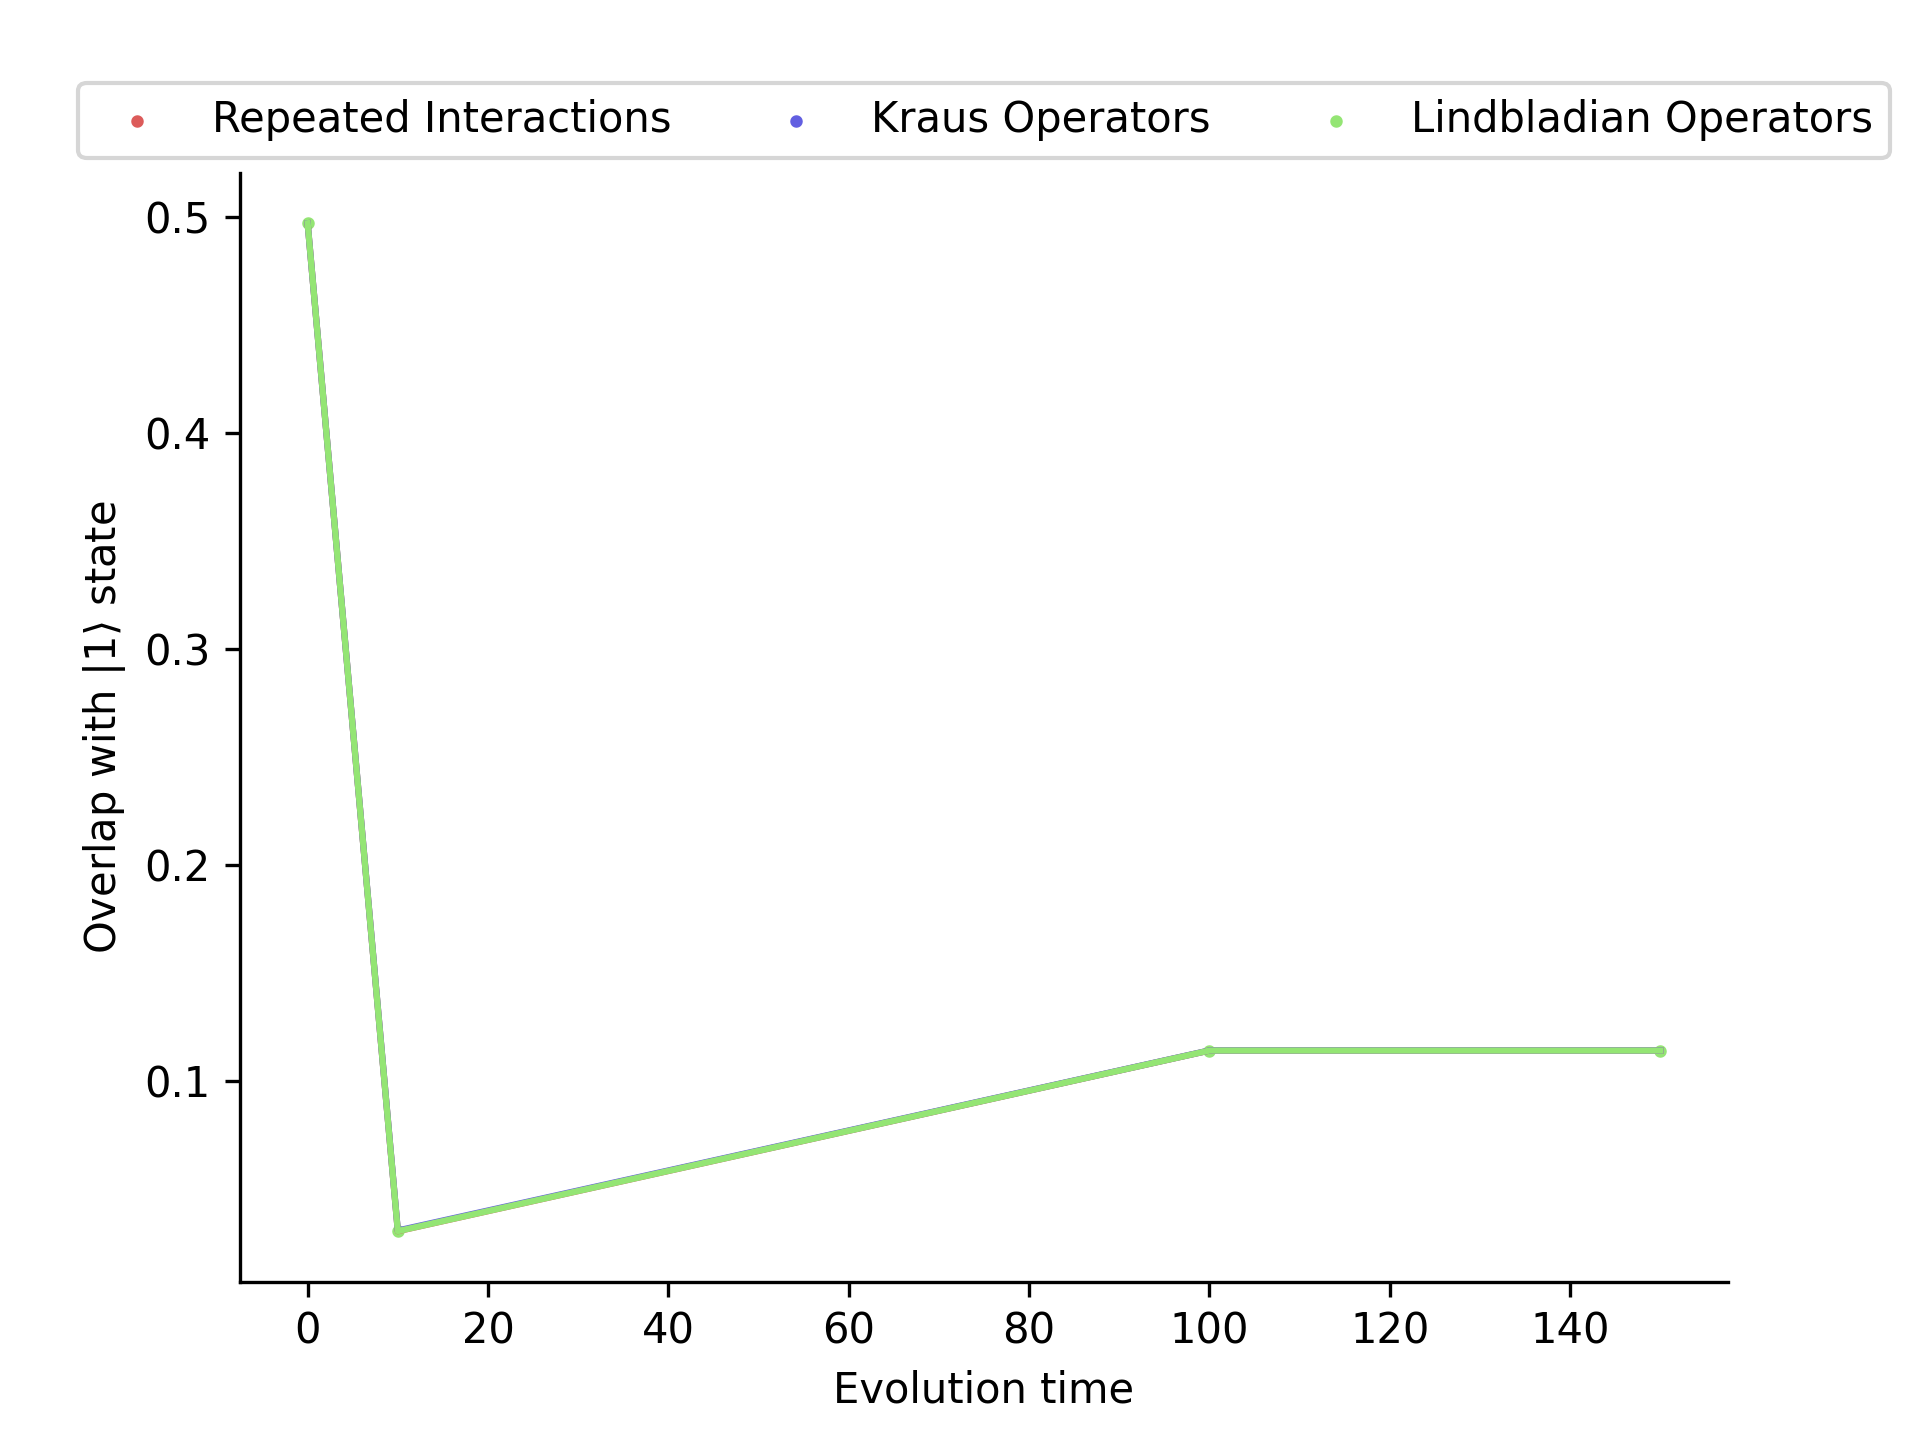
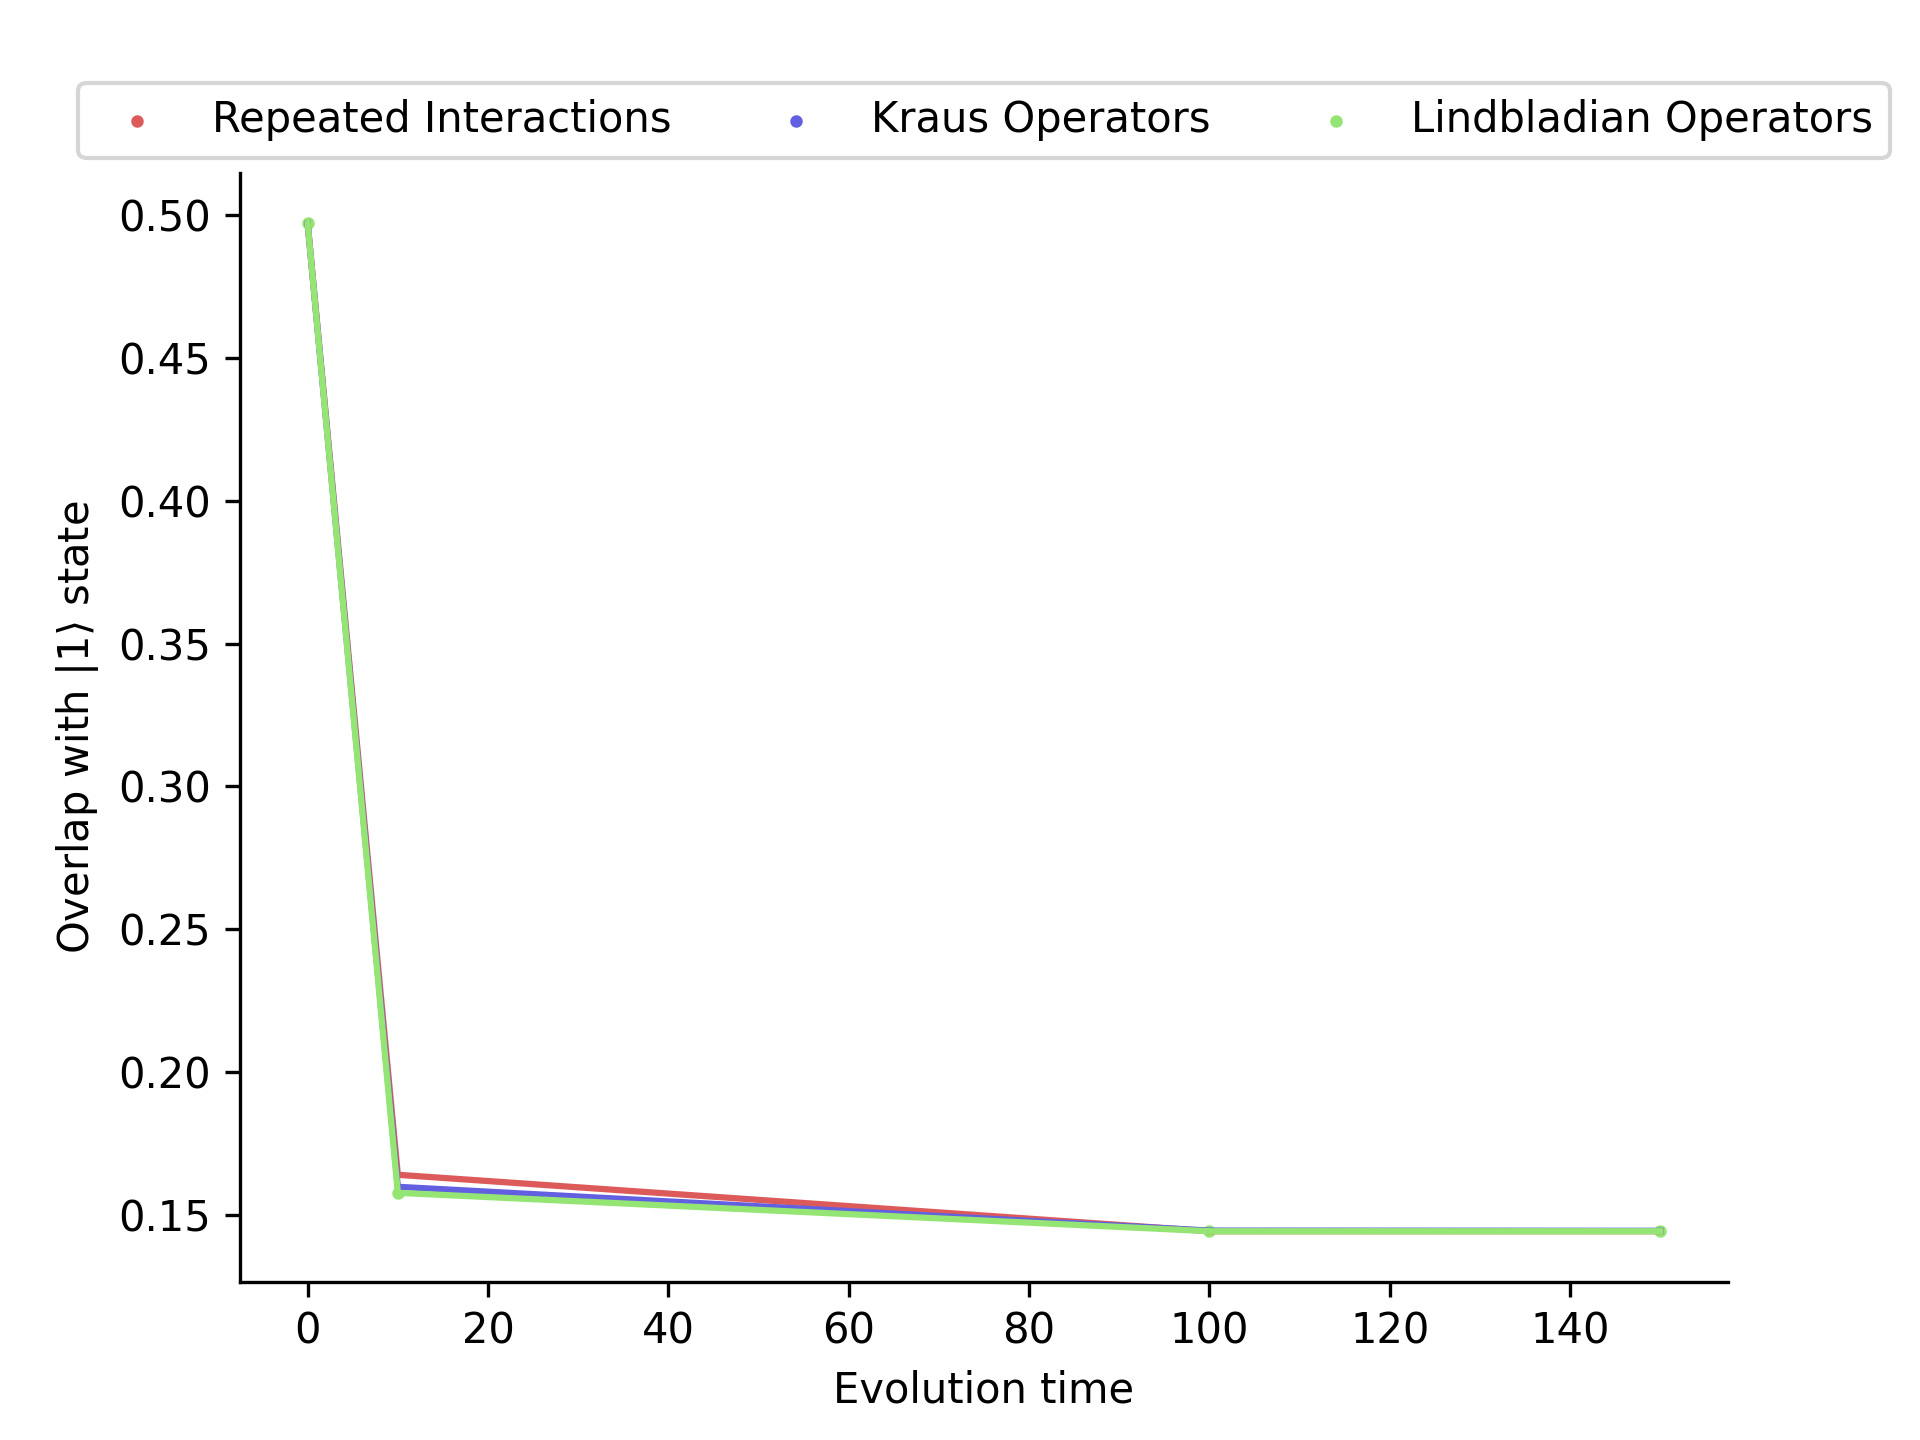
lindbladian evolution works

diff --git a/ising/lindbladian/simulation/multi_cm_damping.py b/ising/lindbladian/simulation/multi_cm_damping.py
@@ -9,6 +9,10 @@ from ising.lindbladian.simulation.unraveled import (
 from ising.utils import global_phase
 from ising.utils.trace import partial_trace
 from ising.hamiltonian import parametrized_ising
+from ising.observables import overall_magnetization
+
+from tqdm import tqdm
+
 
 ZERO = np.array([[1], [0]])
 ONE = np.array([[0], [1]])
@@ -16,12 +20,16 @@ SIGMA_MINUS = np.array([[0, 1], [0, 0]])
 SIGMA_PLUS = np.array([[0, 0], [1, 0]])
 
 
-QUBIT_COUNT = 2
+QUBIT_COUNT = 5
 GAMMAS = [0, 0.1, 0.4, 0.7, 0.9]
-TIMES = [0, 0.5, 1, 1.5, 2]
+GAMMA = 0
+TIME_RANGE = (0, 3)
+TIME_COUNT = 10
 EPS = 0.01
 
 H_VAL = -0.1
+COLORS = ["#DC5B5A", "#625FE1", "#94E574", "#2A2A2A", "#D575EF"]
+
 
 
 def _round(mat):
@@ -176,21 +184,30 @@ def ham_evo(rho_sys, rho_env, ham_sys, gamma, time, neu=1000):
     ham_ints = interaction_hamiltonian(QUBIT_COUNT, gamma=gamma)
 
     hams = []
+    print(f"Running for time:{time}, neu:{neu}")
     for ham_int in ham_ints:
         ham = (np.sqrt(tau) * big_ham_sys / QUBIT_COUNT) + ham_int
         eig_val, eig_vec = np.linalg.eig(ham)
         eig_vec_inv = np.linalg.inv(eig_vec)
         hams.append((eig_vec, eig_val, eig_vec_inv))
+    print("Kraus operator calculation complete")
 
-    for _ in range(neu):
-        for eig_vec, eig_val, eig_vec_inv in hams:
-            complete_rho = np.kron(cur_rho_sys, big_rho_env)
-            rho_fin = (
-                matrix_exp(eig_vec, eig_val, eig_vec_inv, time=np.sqrt(tau))
-                @ complete_rho
-                @ matrix_exp(eig_vec, eig_val, eig_vec_inv, time=-np.sqrt(tau))
-            )
-            cur_rho_sys = partial_trace(rho_fin, list(range(QUBIT_COUNT, 2*QUBIT_COUNT)))
+    us, u_dags = [], []
+    for eig_vec, eig_val, eig_vec_inv in hams:
+        u = matrix_exp(eig_vec, eig_val, eig_vec_inv, time=np.sqrt(tau))
+        u_dag = matrix_exp(eig_vec, eig_val, eig_vec_inv, time=-np.sqrt(tau))
+        us.append(u)
+        u_dags.append(u_dag)
+
+    with tqdm(total=neu) as pbar:
+        for _ in range(neu):
+            pbar.update(1)
+            for u, u_dag in zip(us, u_dags):
+                complete_rho = np.kron(cur_rho_sys, big_rho_env)
+                rho_fin = (
+                    u @ complete_rho @ u_dag 
+                )
+                cur_rho_sys = partial_trace(rho_fin, list(range(QUBIT_COUNT, 2*QUBIT_COUNT)))
 
     return cur_rho_sys
 
@@ -212,19 +229,28 @@ def test_main():
     # Environment qubit is always in ZERO, and it is always only one qubit each
     rho_env = np.outer(ZERO, ZERO.conj())
 
-    for gamma in GAMMAS:
-        for time in TIMES:
-            neu = max(100, int(10 * (time**2) / EPS))
-            rho_ham = ham_evo(rho_sys, rho_env, ham, gamma, time, neu)
-            rho_amp = apply_amplitude_damping(rho_sys, ham, gamma, time, neu)
-            rho_lin = lindblad_evo(rho_sys, ham, gamma, time)
+    observable = overall_magnetization(QUBIT_COUNT).matrix
 
-            rho_lin = rho_lin / global_phase(rho_lin)
-            rho_amp = rho_amp / global_phase(rho_amp)
-            rho_ham = rho_ham / global_phase(rho_ham)
+    gamma = GAMMA
+    results = {"interaction": {}, "lindbladian": {}}
+    times = np.linspace(TIME_RANGE[0], TIME_RANGE[1], TIME_COUNT)
+    for time in times:
+        neu = max(100, int(10 * (time**2) / EPS))
+        rho_ham = ham_evo(rho_sys, rho_env, ham, gamma, time, neu)
+        rho_amp = apply_amplitude_damping(rho_sys, ham, gamma, time, neu)
+        rho_lin = lindblad_evo(rho_sys, ham, gamma, time)
 
-            np.testing.assert_almost_equal(rho_lin, rho_amp, decimal=4)
-            np.testing.assert_almost_equal(rho_lin, rho_ham, decimal=4)
+        rho_lin = rho_lin / global_phase(rho_lin)
+        rho_amp = rho_amp / global_phase(rho_amp)
+        rho_ham = rho_ham / global_phase(rho_ham)
+        results["interaction"][time] = np.trace(np.abs(observable @ rho_ham))
+        results["lindbladian"][time] = np.trace(np.abs(observable @ rho_lin))
+
+    file_name = f"data/lindbladian/time_vs_magn/size_{QUBIT_COUNT}.json"
+    with open(file_name, "w") as file:
+        json.dump(results, file)
+
+    print(f"saved the data to {file_name}")
 
 
 if __name__ == "__main__":

diff --git a/ising/lindbladian/plot/single_cm_overlap_scatter.py b/ising/lindbladian/plot/single_cm_overlap_scatter.py
@@ -29,26 +29,32 @@ def test_main():
 
     fig, ax = plt.subplots()
 
-    for ind, (_title, result) in enumerate(results.items()):
+    x_values, y_values = [], []
+    for time_str, res_str in results["lindbladian"].items():
+        time, res = float(time_str), float(res_str)
+        x_values.append(time)
+        y_values.append(res)
 
-        x_values, y_values = [], []
-        for time_str, res_str in result.items():
-            time, res = float(time_str), float(res_str)
-            x_values.append(time)
-            y_values.append(res)
+    ax = sns.lineplot(
+        x=x_values,
+        y=y_values,
+        label=f"{MAP['lindbladian']}",
+        color=COLORS[0],
+    )
 
-        ax = sns.scatterplot(
-            x=x_values,
-            y=y_values,
-            label=f"{MAP[_title]}",
-            linewidth=3,
-            color=COLORS[ind],
-        )
-        ax = sns.lineplot(
-            x=x_values,
-            y=y_values,
-            color=COLORS[ind],
-        )
+    x_values, y_values = [], []
+    for time_str, res_str in results["interaction"].items():
+        time, res = float(time_str), float(res_str)
+        x_values.append(time)
+        y_values.append(res)
+
+    ax = sns.scatterplot(
+        x=x_values,
+        y=y_values,
+        label=f"{MAP['interaction']}",
+        s=25,
+        color=COLORS[1],
+    )
 
     # Remove the top and right border
     ax.spines["top"].set_visible(False)
@@ -58,7 +64,7 @@ def test_main():
     plt.ylabel(r"Overlap with $|1\rangle$ state")
     plt.xlabel(r"Evolution time")
 
-    file_name = f"plots/lindbladian/simulation/single_cm.png"
+    file_name = f"plots/lindbladian/simulation/single_cm_scatter.png"
 
     plt.legend(loc="upper center", bbox_to_anchor=(0.5, 1.10), ncol=3, fontsize=10)
     plt.savefig(file_name, dpi=300)

diff --git a/ising/lindbladian/plot/plot_multi_cm_damping.py b/ising/lindbladian/plot/plot_multi_cm_damping.py
@@ -1,0 +1,61 @@
+import numpy as np
+import json
+
+
+import seaborn as sns
+from matplotlib import pyplot as plt
+
+COLORS = ["#DC5B5A", "#625FE1", "#94E574", "#2A2A2A", "#D575EF"]
+
+QUBIT_COUNT = 4
+
+def _round(mat):
+    return np.round(mat, decimals=2)
+
+def test_main():
+    np.random.seed(42)
+
+
+    file_name = f"data/lindbladian/time_vs_magn/size_{QUBIT_COUNT}.json"
+    with open(file_name, "r") as file:
+        results = json.load(file)
+
+    times, interaction, lindbladian = [], [], []
+    for time, res in results["interaction"].items():
+        times.append(_round(float(time)))
+        interaction.append(res)
+
+    for _, res in results["lindbladian"].items():
+        lindbladian.append(res)
+
+    ax = sns.lineplot(
+        x=times,
+        y=lindbladian,
+        label=f"Direct Lindbladian Evolution",
+        color=COLORS[1],
+    )
+    ax = sns.scatterplot(
+        x=times,
+        y=interaction,
+        label=f"Repeated Interaction Evolution",
+        s=35,
+        color=COLORS[0],
+    )
+
+    # Remove the top and right border
+    ax.spines["top"].set_visible(False)
+    ax.spines["right"].set_visible(False)
+
+    # Add labels for each group
+    plt.ylabel(r"Overall Magnetization")
+    plt.xlabel(r"Evolution time")
+
+    file_name = f"plots/lindbladian/simulation/multi_cm_magnetization.png"
+
+    plt.legend(loc="upper center", bbox_to_anchor=(0.5, 1.10), ncol=3, fontsize=10)
+    plt.savefig(file_name, dpi=300)
+    print(f"saved the plot to {file_name}")
+
+
+if __name__ == "__main__":
+    test_main()

diff --git a/ising/lindbladian/simulation/single_cm_overlap.py b/ising/lindbladian/simulation/single_cm_overlap.py
@@ -18,10 +18,11 @@ SIGMA_PLUS = np.array([[0, 0], [1, 0]])
 
 QUBIT_COUNT = 1
 GAMMA = 0.1
-TIMES = [0, 10, 100, 150]
+TIMES_RANGE = (0, 5)
+TIMES_COUNT = 20
 EPS = 0.5
 
-H_VAL = -0.1
+H_VAL = -1
 
 
 def _round(mat):
@@ -230,11 +231,13 @@ def test_main():
     # Environment qubit is always in ZERO, and it is always only one qubit each
     rho_env = np.outer(ZERO, ZERO.conj())
 
+    times = np.linspace(TIMES_RANGE[0], TIMES_RANGE[1], TIMES_COUNT)
+
     file_name = f"data/lindbladian/overlap/one_qubit.json"
     results = {
-            "interaction": ham_evo_overlap(rho_sys, rho_env, ham, GAMMA, TIMES),
-            "kraus": apply_amplitude_damping_overlap(rho_sys, ham, GAMMA, TIMES),
-            "lindbladian": lindblad_evo_overlap(rho_sys, ham, GAMMA, TIMES)
+            "interaction": ham_evo_overlap(rho_sys, rho_env, ham, GAMMA, times),
+            "kraus": apply_amplitude_damping_overlap(rho_sys, ham, GAMMA, times),
+            "lindbladian": lindblad_evo_overlap(rho_sys, ham, GAMMA, times)
         }
 
     with open(file_name, "w") as file:

diff --git a/ising/groundstate/simulation/lcutaylor.py b/ising/groundstate/simulation/lcutaylor.py
@@ -120,3 +120,4 @@ class LCUTaylor:
                 pbar.update(1)
 
         return calculate_mu(results, count, self.lcu_coeffs)
+
